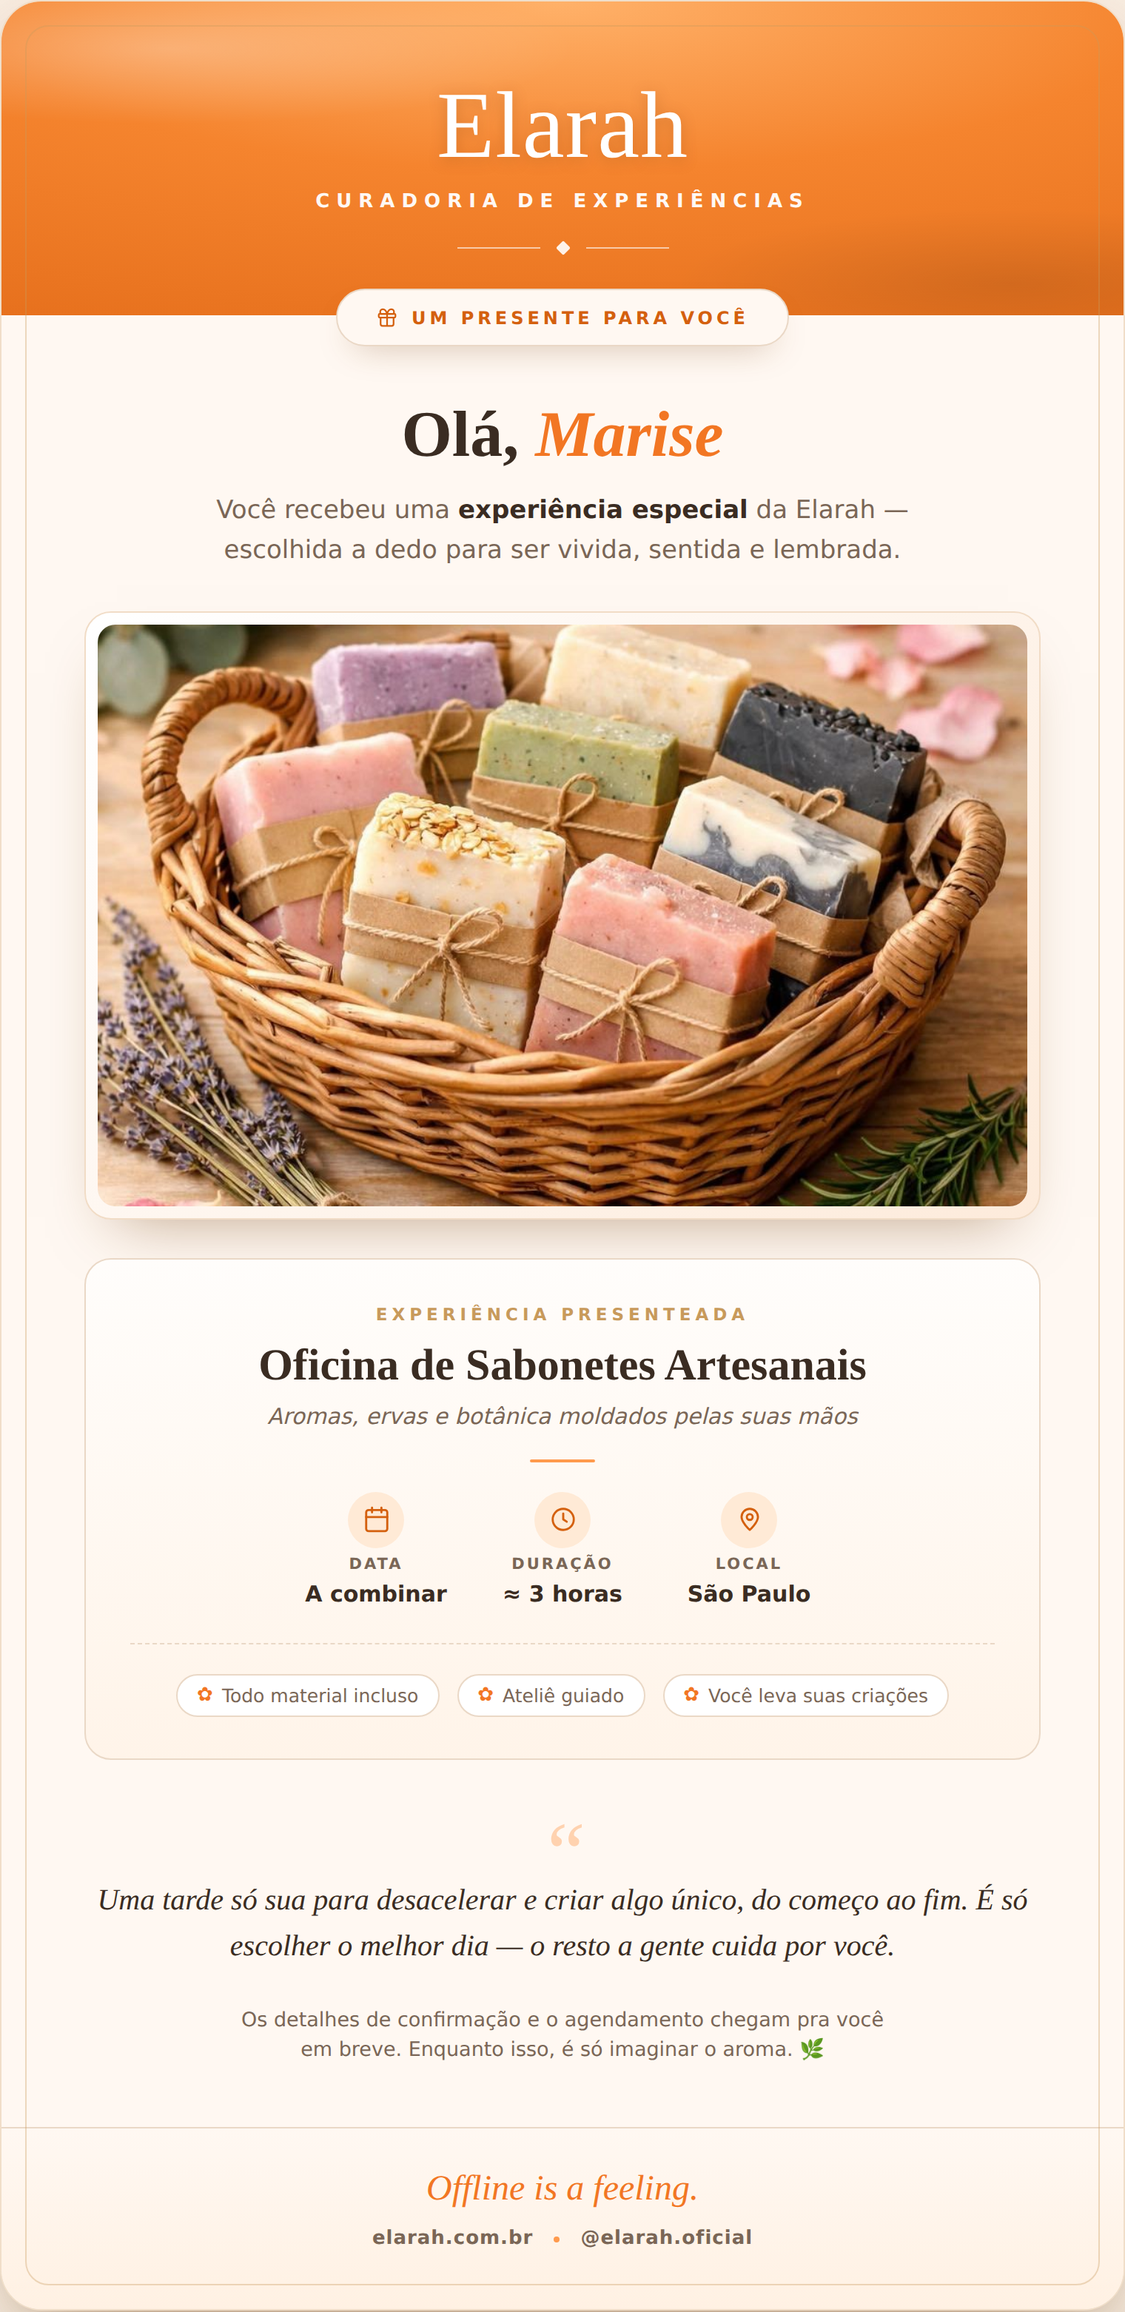
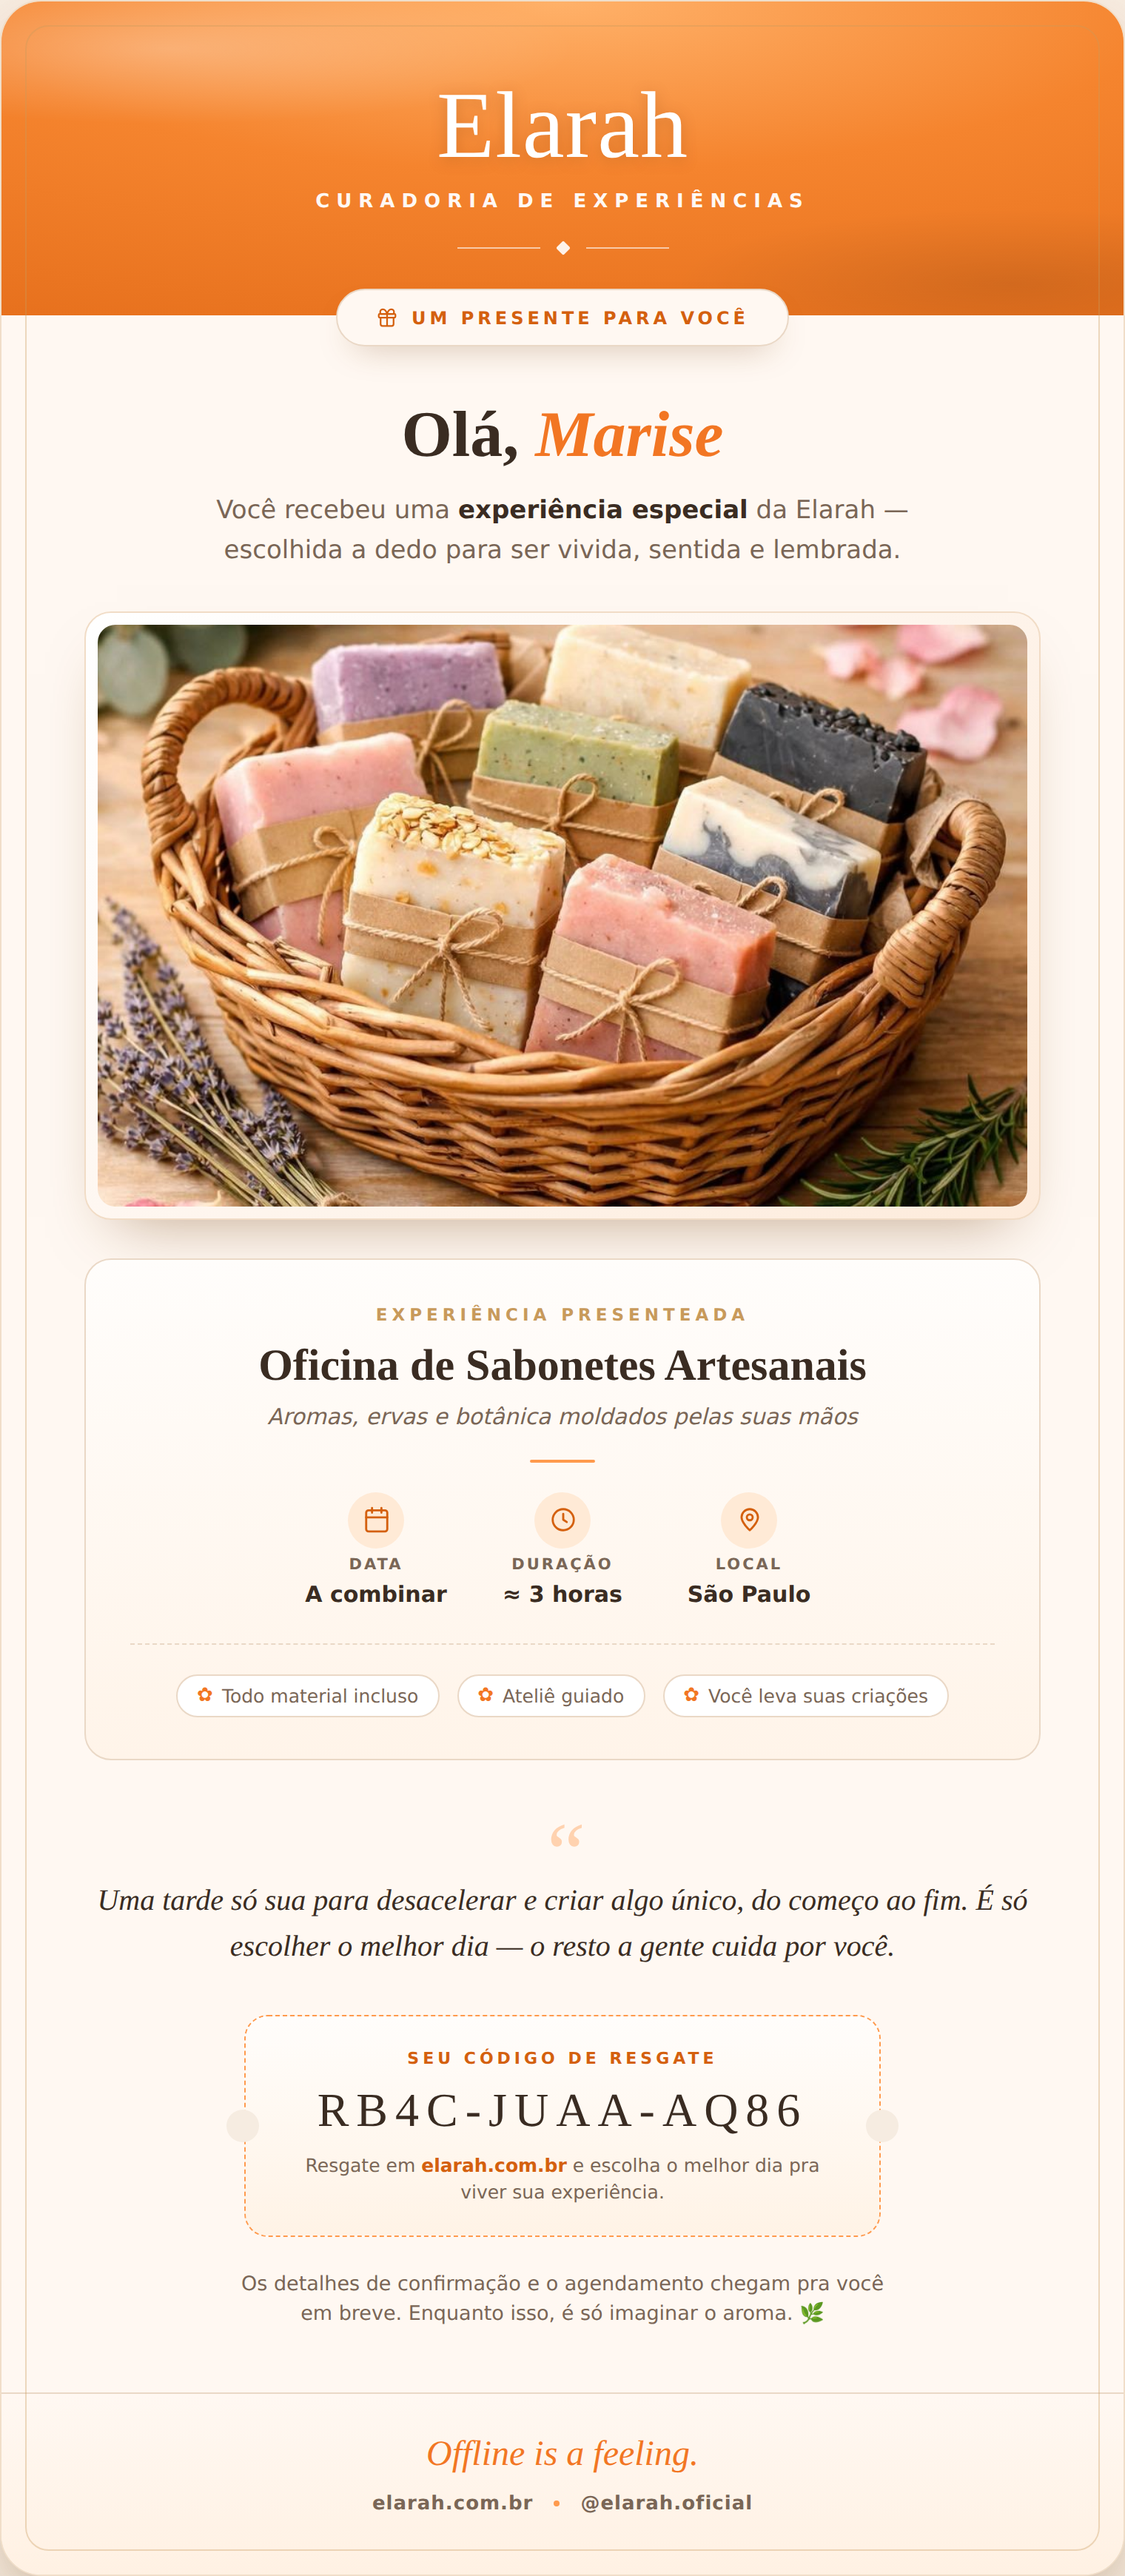
Add redeem code voucher to gift card
Bloco de código de resgate em formato de voucher (borda pontilhada,
recorte lateral) com o código RB4C-JUAA-AQ86 e instrução de resgate.

Claude-Session: https://claude.ai/code/session_01KW2iLsddKbMn13YnnKeXzq

diff --git a/gift-card.html b/gift-card.html
@@ -219,8 +219,41 @@
     position:absolute;top:0;left:50%;transform:translateX(-50%);
   }
 
+  /* ===== REDEEM CODE ===== */
+  .code{
+    margin:30px auto 0;
+    max-width:430px;
+    padding:22px 24px 20px;
+    background:
+      repeating-linear-gradient(90deg,#FFF 0 14px,transparent 14px 20px) top/100% 2px no-repeat,
+      linear-gradient(180deg,#FFFDFB,#FFF3E6);
+    border:1.6px dashed var(--orange-light);
+    border-radius:16px;
+    position:relative;
+  }
+  .code::before,.code::after{
+    content:"";position:absolute;top:50%;width:22px;height:22px;
+    background:#F6ECE1;border-radius:50%;transform:translateY(-50%);
+  }
+  .code::before{left:-13px;}
+  .code::after{right:-13px;}
+  .code__k{
+    font-size:11px;font-weight:700;letter-spacing:2.5px;text-transform:uppercase;
+    color:var(--orange-dark);
+  }
+  .code__v{
+    margin-top:10px;
+    font-family:var(--serif);
+    font-size:32px;letter-spacing:5px;color:var(--ink);
+    white-space:nowrap;
+  }
+  .code__hint{
+    margin-top:10px;font-size:12.5px;line-height:1.45;color:var(--ink-soft);
+  }
+  .code__hint b{color:var(--orange-dark);font-weight:600;}
+
   .note{
-    margin:24px auto 0;
+    margin:22px auto 0;
     max-width:440px;
     font-size:13.5px;line-height:1.5;color:var(--ink-soft);
   }
@@ -320,6 +353,13 @@
 
       <!-- MESSAGE -->
       <p class="msg">Uma tarde só sua para desacelerar e criar algo único, do começo ao fim. É só escolher o melhor dia — o resto a gente cuida por você.</p>
+
+      <!-- REDEEM CODE -->
+      <div class="code">
+        <div class="code__k">Seu código de resgate</div>
+        <div class="code__v">RB4C-JUAA-AQ86</div>
+        <div class="code__hint">Resgate em <b>elarah.com.br</b> e escolha o melhor dia pra viver sua experiência.</div>
+      </div>
 
       <p class="note">Os detalhes de confirmação e o agendamento chegam pra você em breve. Enquanto isso, é só imaginar o aroma. 🌿</p>
     </div>
